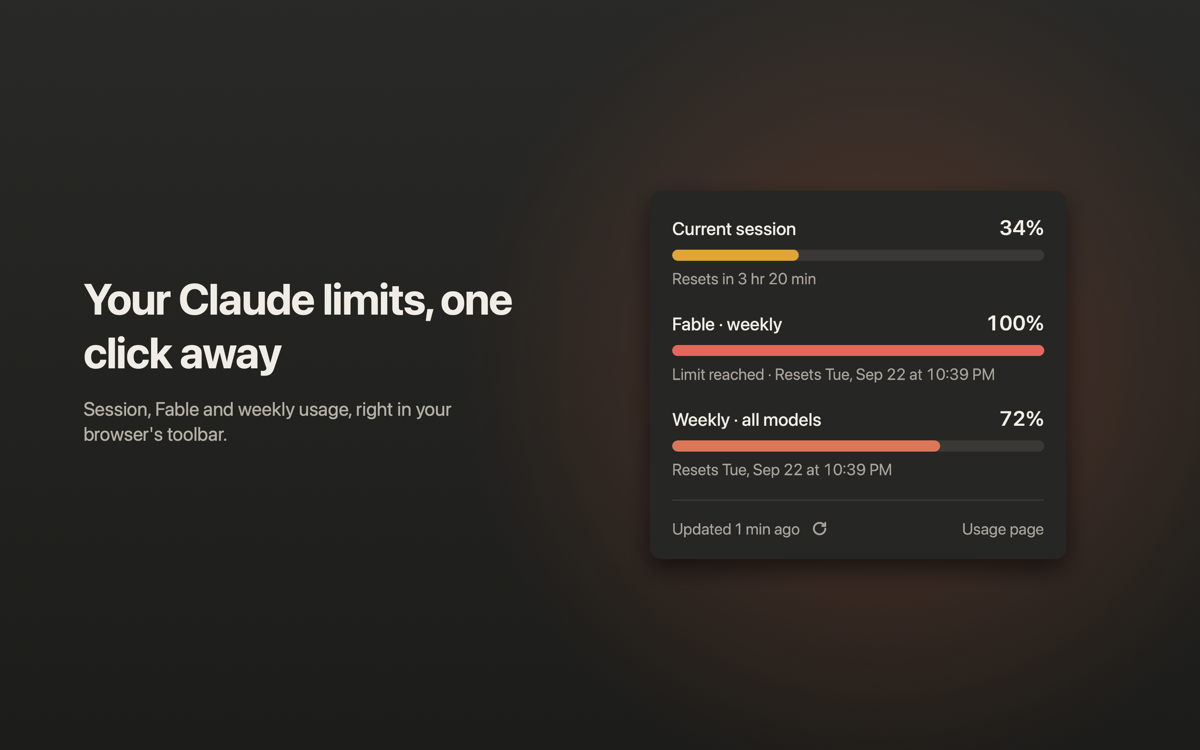
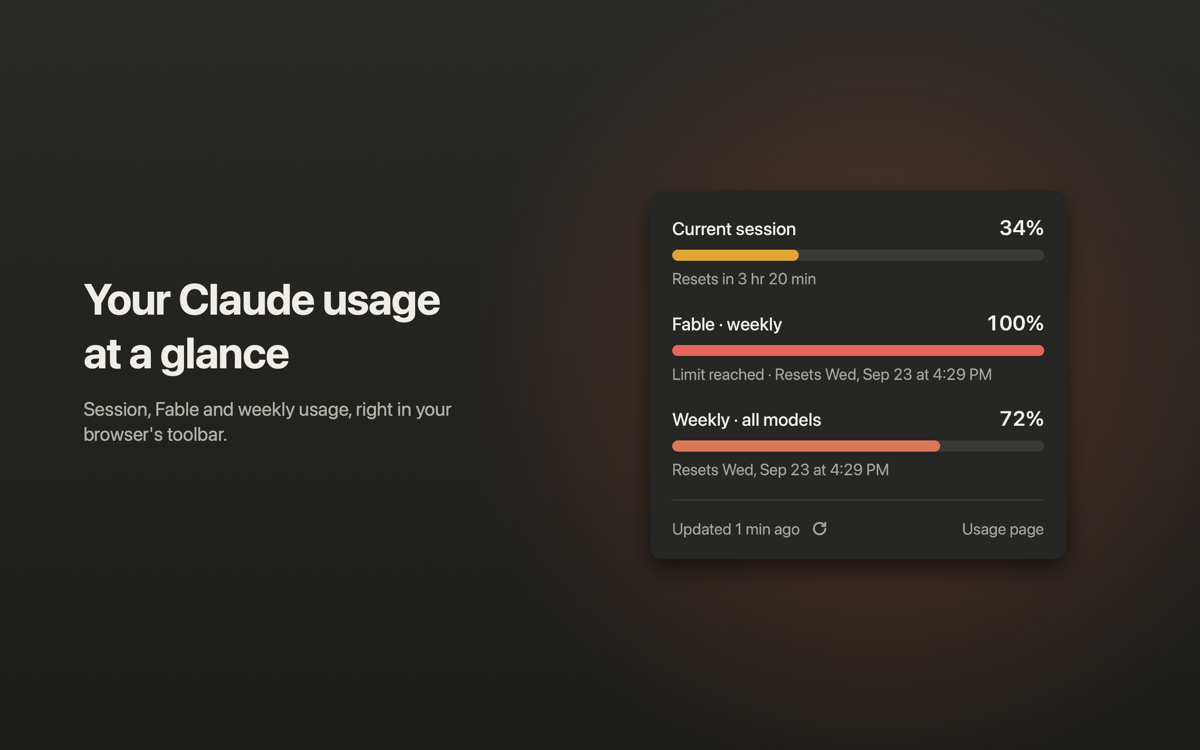
Headline: Your Claude usage at a glance
The badge and ring show usage with no click at all, so "one click away" undersold
it. The first feature card drops its own "glance" so the two don't echo, and the
link preview image carries the new line.

diff --git a/index.html b/index.html
@@ -3,14 +3,14 @@
 <head>
   <meta charset="utf-8">
   <meta name="viewport" content="width=device-width, initial-scale=1">
-  <title>Meterous – your Claude limits, one click away</title>
+  <title>Meterous – your Claude usage at a glance</title>
   <meta name="description" content="A usage meter for Claude subscribers: session, Fable and weekly limits in your browser's toolbar, with the time each one resets. Free for Chrome and Firefox; coming soon for Safari.">
   <meta name="theme-color" content="#c96442">
   <link rel="icon" href="icon.png">
   <link rel="apple-touch-icon" href="icon.png">
   <meta property="og:type" content="website">
   <meta property="og:site_name" content="Meterous">
-  <meta property="og:title" content="Meterous – your Claude limits, one click away">
+  <meta property="og:title" content="Meterous – your Claude usage at a glance">
   <meta property="og:description" content="A usage meter for Claude subscribers: session, Fable and weekly limits in your browser's toolbar, with the time each one resets. Free for Chrome and Firefox; coming soon for Safari.">
   <meta property="og:url" content="https://meterous.app/">
   <meta property="og:image" content="https://meterous.app/og.png">
@@ -25,7 +25,7 @@
   </nav>
   <section class="hero">
     <div>
-      <h1>Your Claude limits, one click away</h1>
+      <h1>Your <span style="white-space:nowrap">Claude usage</span> <span style="white-space:nowrap">at a glance</span></h1>
       <p class="lead">Meterous puts your session, Fable and weekly usage in your browser's toolbar, with the exact time each one resets.</p>
       <div class="cta-row" id="installs">
         <a class="cta" id="install-chrome" href="https://chromewebstore.google.com/detail/meterous/bdcgeladkdlilimaijoaopiglppfdfkc" rel="noopener"><svg viewBox="0 0 24 24" width="17" height="17" fill="currentColor" aria-hidden="true"><path d="M12 0C8.21 0 4.831 1.757 2.632 4.501l3.953 6.848A5.454 5.454 0 0 1 12 6.545h10.691A12 12 0 0 0 12 0zM1.931 5.47A11.943 11.943 0 0 0 0 12c0 6.012 4.42 10.991 10.189 11.864l3.953-6.847a5.45 5.45 0 0 1-6.865-2.29zm13.342 2.166a5.446 5.446 0 0 1 1.45 7.09l.002.001h-.002l-5.344 9.257c.206.01.413.016.621.016 6.627 0 12-5.373 12-12 0-1.54-.29-3.011-.818-4.364zM12 16.364a4.364 4.364 0 1 1 0-8.728 4.364 4.364 0 0 1 0 8.728Z"/></svg>Add to Chrome · Free</a>
@@ -45,7 +45,7 @@
   <section class="features">
     <div class="feature">
       <svg viewBox="0 0 32 32" width="32" height="32" fill="none" stroke="currentColor" stroke-width="3" stroke-linecap="round" aria-hidden="true"><path d="M6 8h14M6 16h20M6 24h9"/></svg>
-      <h3>Three meters, one glance</h3>
+      <h3>Three meters, one popup</h3>
       <p>Current session, Fable, and weekly across all models. The toolbar badge shows your session without opening anything.</p>
     </div>
     <div class="feature">
